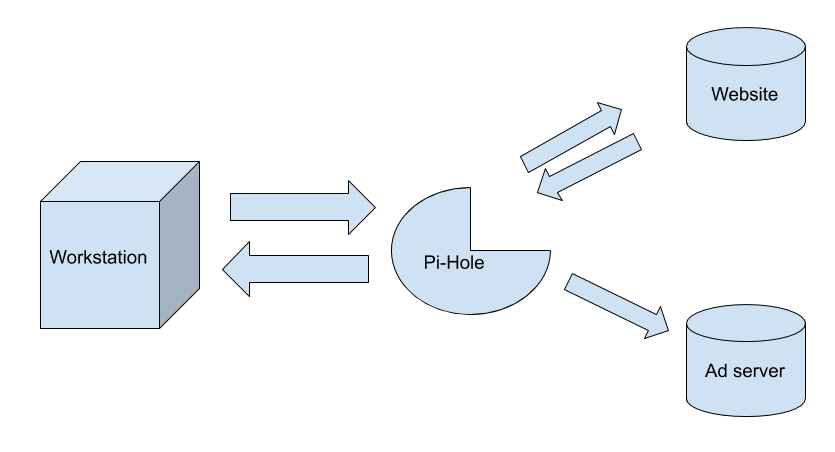
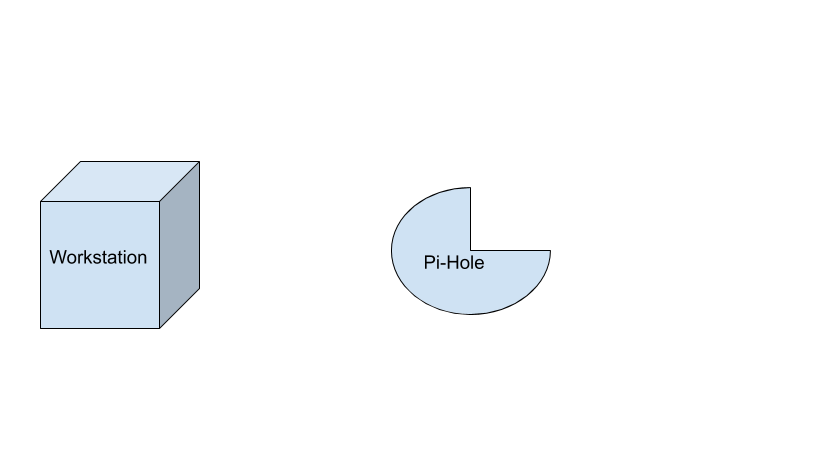
Punch up slides

diff --git a/index.html b/index.html
@@ -35,8 +35,6 @@
 			    </aside>
 				<h1>P<span style=color:#00ff00;text-transform:lowercase>I</span>-hole Pr<span style=color:#00ff00;text-transform:lowercase>I</span>vacy:</h1>
 			    <h3>Tamper<span style=color:#00ff00;text-transform:lowercase>I</span>ng <span style=color:#00ff00;text-transform:lowercase>I</span>s a Good Th<span style=color:#00ff00;text-transform:lowercase>I</span>ng</h3>
-			  </br>
-
 			  Jun<span style=color:#00ff00;text-transform:lowercase>I</span>or T<span style=color:#00ff00;text-transform:lowercase>I</span>dal</br><small>C<span style=color:#00ff00;text-transform:lowercase>I</span>ty Un<span style=color:#00ff00;text-transform:lowercase>I</span>vers<span style=color:#00ff00;text-transform:lowercase>I</span>ty of New York</small></br>
 			  Chad Clark</br><small>H<span style=color:#00ff00;text-transform:lowercase>I</span>ghland Park Publ<span style=color:#00ff00;text-transform:lowercase>I</span>c L<span style=color:#00ff00;text-transform:lowercase>I</span>brary</small></br>
 			  Bryan Ne<span style=color:#00ff00;text-transform:lowercase>I</span>l Jones</br><small>Nashv<span style=color:#00ff00;text-transform:lowercase>I</span>lle Publ<span style=color:#00ff00;text-transform:lowercase>I</span>c L<span style=color:#00ff00;text-transform:lowercase>I</span>brary</small>
@@ -47,7 +45,7 @@
 			<section>
 			  <!--PART 1 SLIDE 1.1-->
 
-				<section data-background="images/black-logo.png">
+				<section data-background="images/black-logo.png" data-transition="slide">
 				  <aside class="notes">
             If you say “privacy” everyone understands what you mean, but if you ask people to define privacy that’s when the party starts. Icebreaker--what’s your name, a hope and challenge in the context of privacy. Snowden, “Privacy is the right to a self.”
 			    </aside>
@@ -56,7 +54,7 @@
 				<p class="fragment fade-left"><b>What are our challenges?</b></p>
 				</section>
 
-			  <section data-transition="fade-in" data-background="images/black-logo.png">
+			  <section data-background="images/black-logo.png">
 				  <!--PART 1 SLIDE 1.2-->
 			    <aside class="notes">
 In 2014, Shoshana Zuboff coins the term ‘surveillance capitalism’.  This is when data is gathered about people in secret, or with there nominal consent. This data, or metadata about that data, is sold; or products are marketed using that data. Results: constant commercial surveillance, you think your phone is reading your mind, and what else?
@@ -223,44 +221,48 @@ When you visit a website, that website may have other content that is being load
 				  <aside class="notes">
 This is how Pi-Hole works. Your browser makes a request for a website. That request is sent to Pi-Hole. Pi-Hole as a DNS server has a list of pre-loaded known advertising URLs. It checks if the website you requested is also requesting data to be sent from the black-list of URLs. If so, it blocks that content and only serves what’s on the website.
 			    </aside>
-				  <h3>How's <span style=color:#00ff00;text-transform:lowercase>I</span>t work?</h3>
+				  <h4>How does <span style=color:#00ff00;text-transform:lowercase>I</span>t work?</h4>
 				  <img src="images/pi-hole-diagram.png"></img>
-				</section>
+	       	</section>
 
 	      <section data-background="images/black-logo.png">
 				  <!--PART 2 SLIDE 2.4.-->
 				  <aside class="notes">
-
+Your browser makes a request for a website. That request is sent to Pi-Hole.
 			    </aside>
-				  <h1></h1>
-				  <img src="images/pi-hole-logo2.png"></img>
+				  <h4>How does <span style=color:#00ff00;text-transform:lowercase>I</span>t work?</h4>
+				  <img src="images/pi-hole-diagram-1.png"></img>
 				</section>
 
 	      <section data-background="images/black-logo.png">
 				  <!--PART 2 SLIDE 2.5-->
 				  <aside class="notes">
-
+Pi-Hole as a DNS server has a list of pre-loaded known advertising URLs. It checks if the website you requested is also requesting data to be sent from the black-list of URLs.
 			    </aside>
-				  <h1></h1>
-				  <img src="images/pi-hole-logo2.png"></img>
+				  <h4>How does <span style=color:#00ff00;text-transform:lowercase>I</span>t work?</h4>
+				  <img src="images/pi-hole-diagram-2.png"></img>
 				</section>
 
 	      <section data-background="images/black-logo.png">
 				  <!--PART 2 SLIDE 2.6-->
 				  <aside class="notes">
-
+Content from black-list URLs are blocked. Only website content is served.
 			    </aside>
-				  <h1></h1>
-				  <img src="images/pi-hole-logo2.png"></img>
+				  <h4>How does <span style=color:#00ff00;text-transform:lowercase>I</span>t work?</h4>
+				  <img src="images/pi-hole-diagram-3.png"></img>
 				</section>
 
 	      <section data-background="images/black-logo.png">
 				  <!--PART 2 SLIDE 2.7-->
 				  <aside class="notes">
-
+We have Raspberry Pis that you can use to install a Pi-Hole and test it out using your device. This activity will involve installing Pi-Hole, connecting to the same network that the Pi-Hole lives on, updating your device’s DNS settings to the Pi-Hole IP, and testing to see if it works. You will also see how the Pi-Hole admin screen. This is all dependent on the hotel’s WiFi. We can also use a cell-phone tether to test this as well.
 			    </aside>
-				  <h1></h1>
-				  <img src="images/pi-hole-logo2.png"></img>
+				  <h3>Hands-on act<span style=color:#00ff00;text-transform:lowercase>I</span>v<span style=color:#00ff00;text-transform:lowercase>I</span>ty:</h3>
+				  <p class="fragment fade-left">Raspberry P<span style=color:#00ff00;text-transform:lowercase>I</span> Zero W connected to the <span style=color:#00ff00;text-transform:lowercase>I</span>nternet</p>
+	        <p class="fragment fade-left">Raspb<span style=color:#00ff00;text-transform:lowercase>I</span>an Buster L<span style=color:#00ff00;text-transform:lowercase>I</span>te <span style=color:#00ff00;text-transform:lowercase>I</span>nstalled on m<span style=color:#00ff00;text-transform:lowercase>I</span>croSD card</p>
+	        <p class="fragment fade-left">USB power supply</p>
+	        <p class="fragment fade-left">Smart router</p>
+	        <p class="fragment fade-left">Laptop to <span style=color:#00ff00;text-transform:lowercase>I</span>nterface with RP<span style=color:#00ff00;text-transform:lowercase>I</span>-Zero</p>
 				</section>
 
 	      <section data-background="images/black-logo.png">
@@ -335,16 +337,7 @@ Resources Continued
 <p align="left"><small>Zuboff, S. (2019). The age of surveillance capitalism. PublicAffairs.</small></p>
 				</section>
 
-	      <section data-background="images/black-logo.png">
-				  <!--PART 2 SLIDE X.X.-->
-				  <aside class="notes">
-
-			    </aside>
-				  <h1></h1>
-				  <img src="images/pi-hole-logo2.png"></img>
-				</section>
-
-		  </section>
+	   </section>
 
 			</div>
 		</div>
@@ -357,6 +350,7 @@ Resources Continued
 			// - https://github.com/hakimel/reveal.js#dependencies
 			Reveal.initialize({
 				hash: true,
+		    transition: Reveal.getQueryHash().transition || 'fade', // default/cube/page/concave/zoom/linear/fade/none
 				dependencies: [
 					{ src: 'plugin/markdown/marked.js' },
 					{ src: 'plugin/markdown/markdown.js' },
